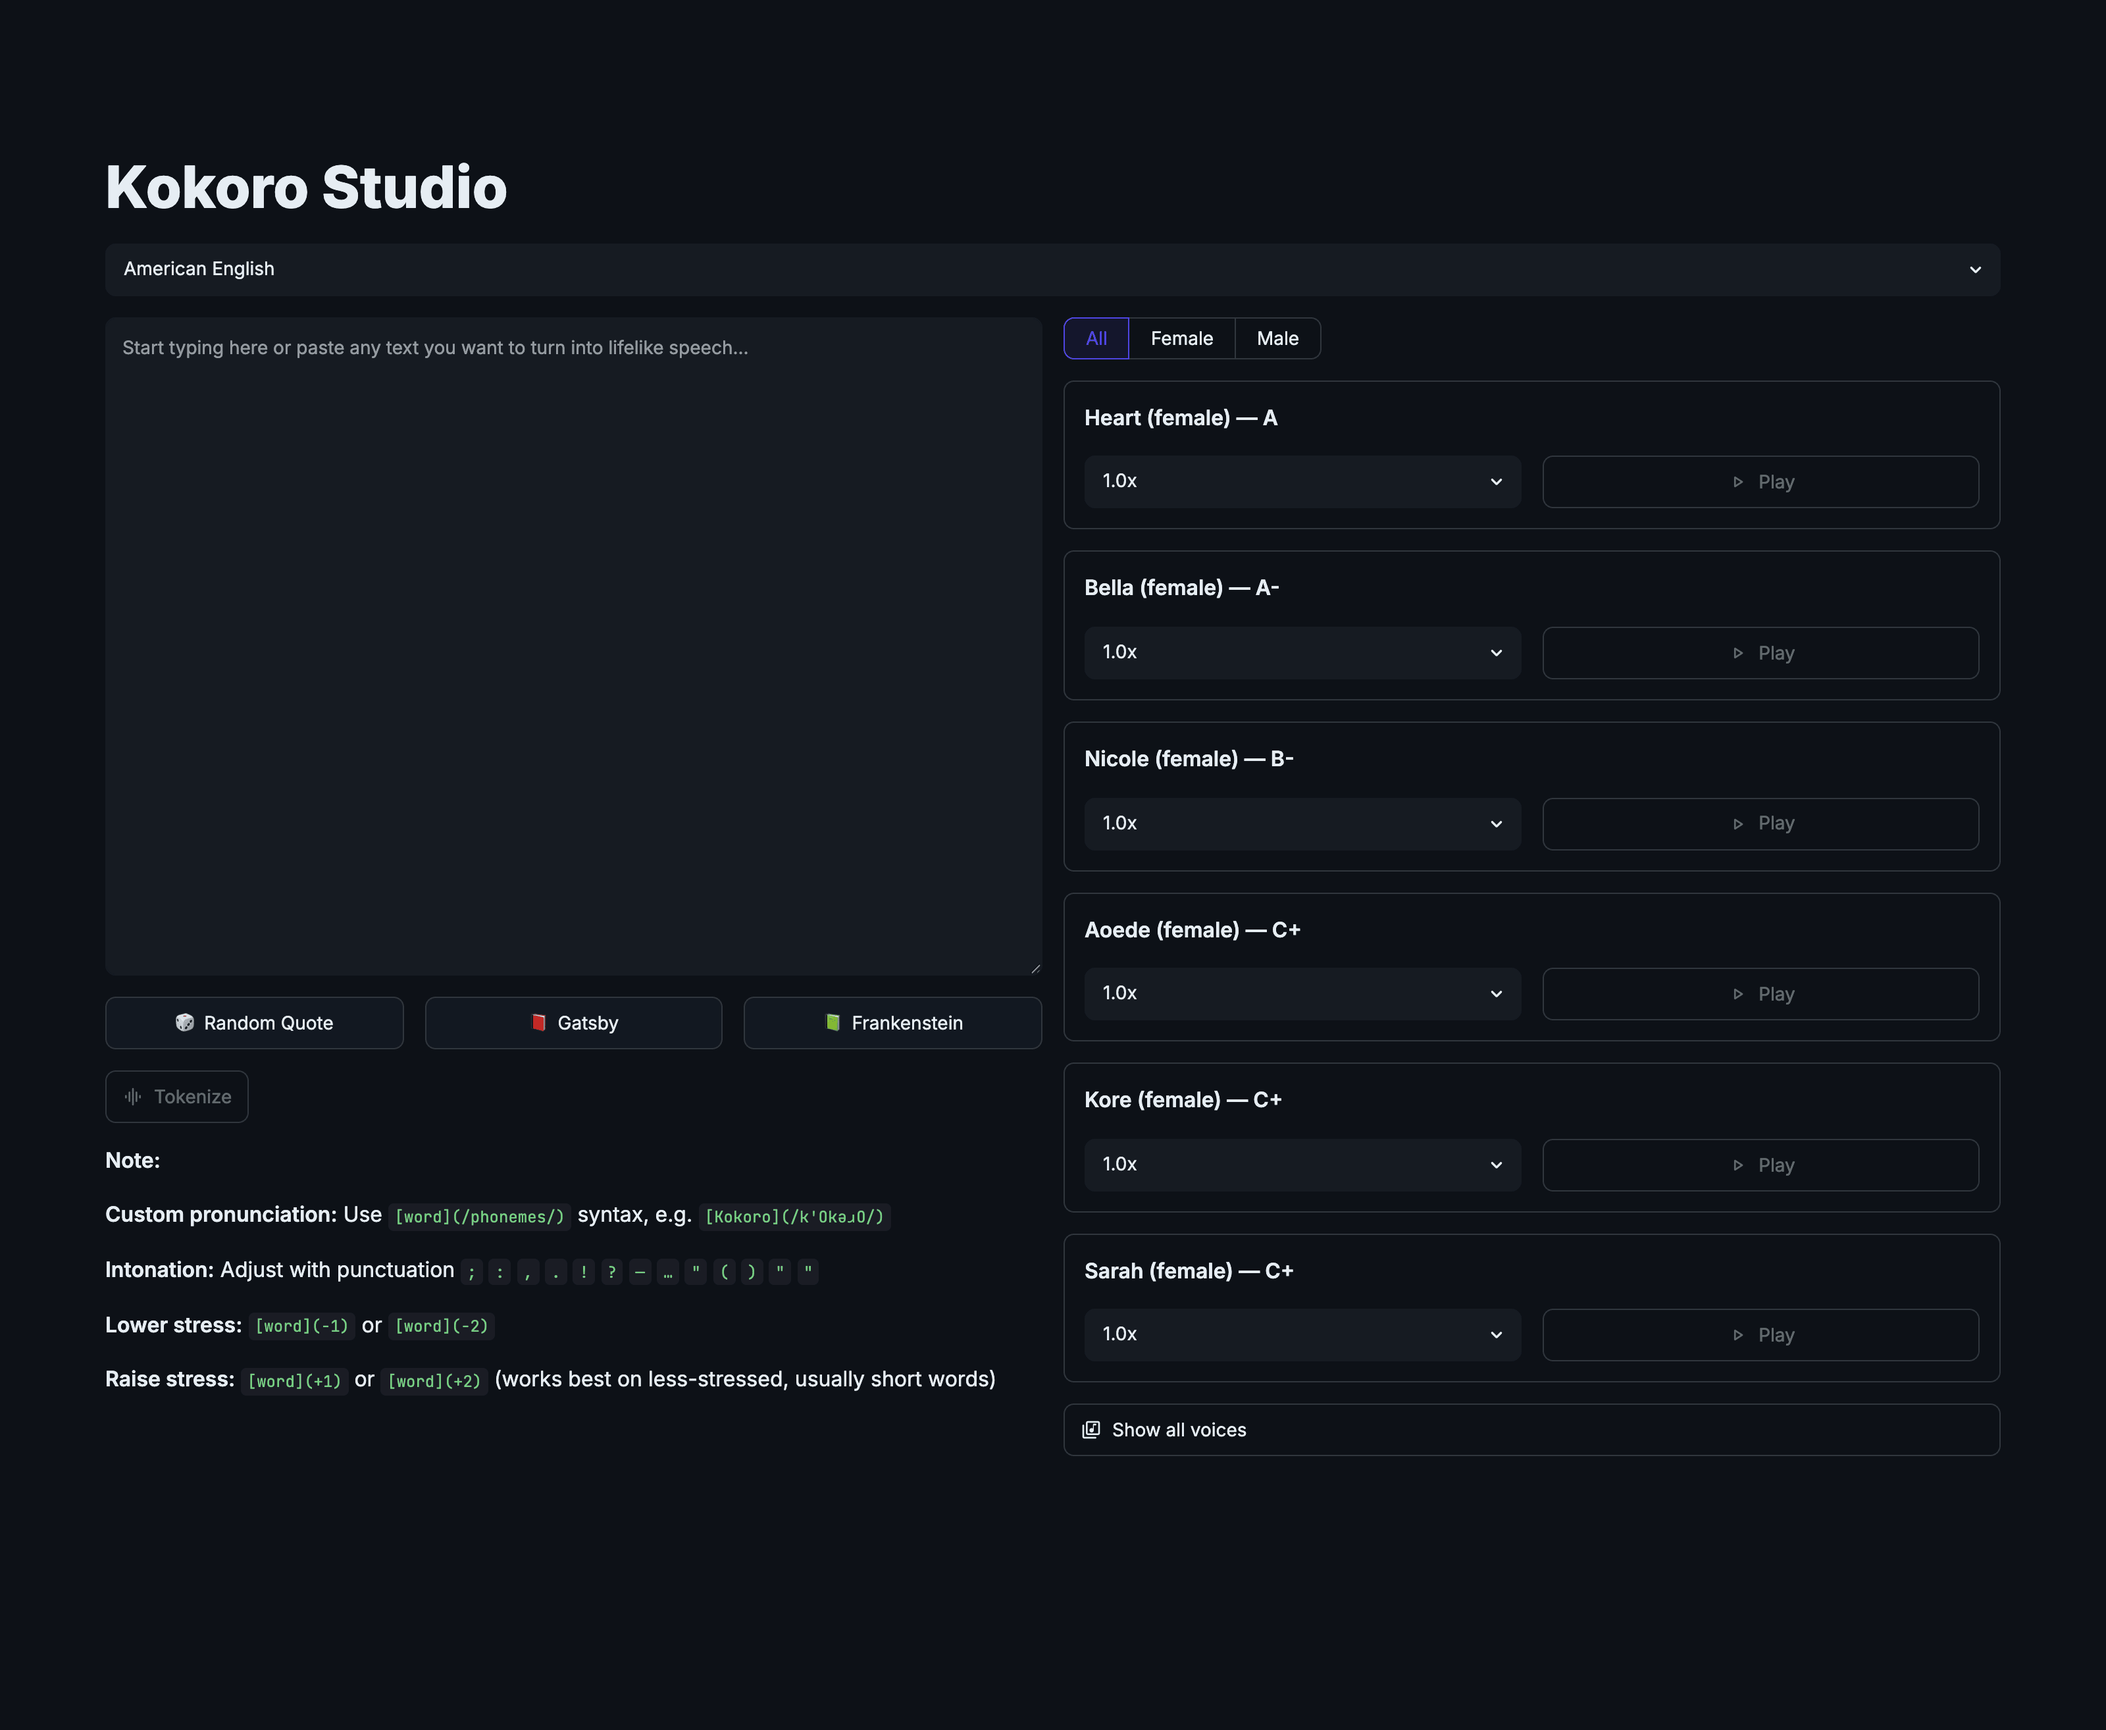
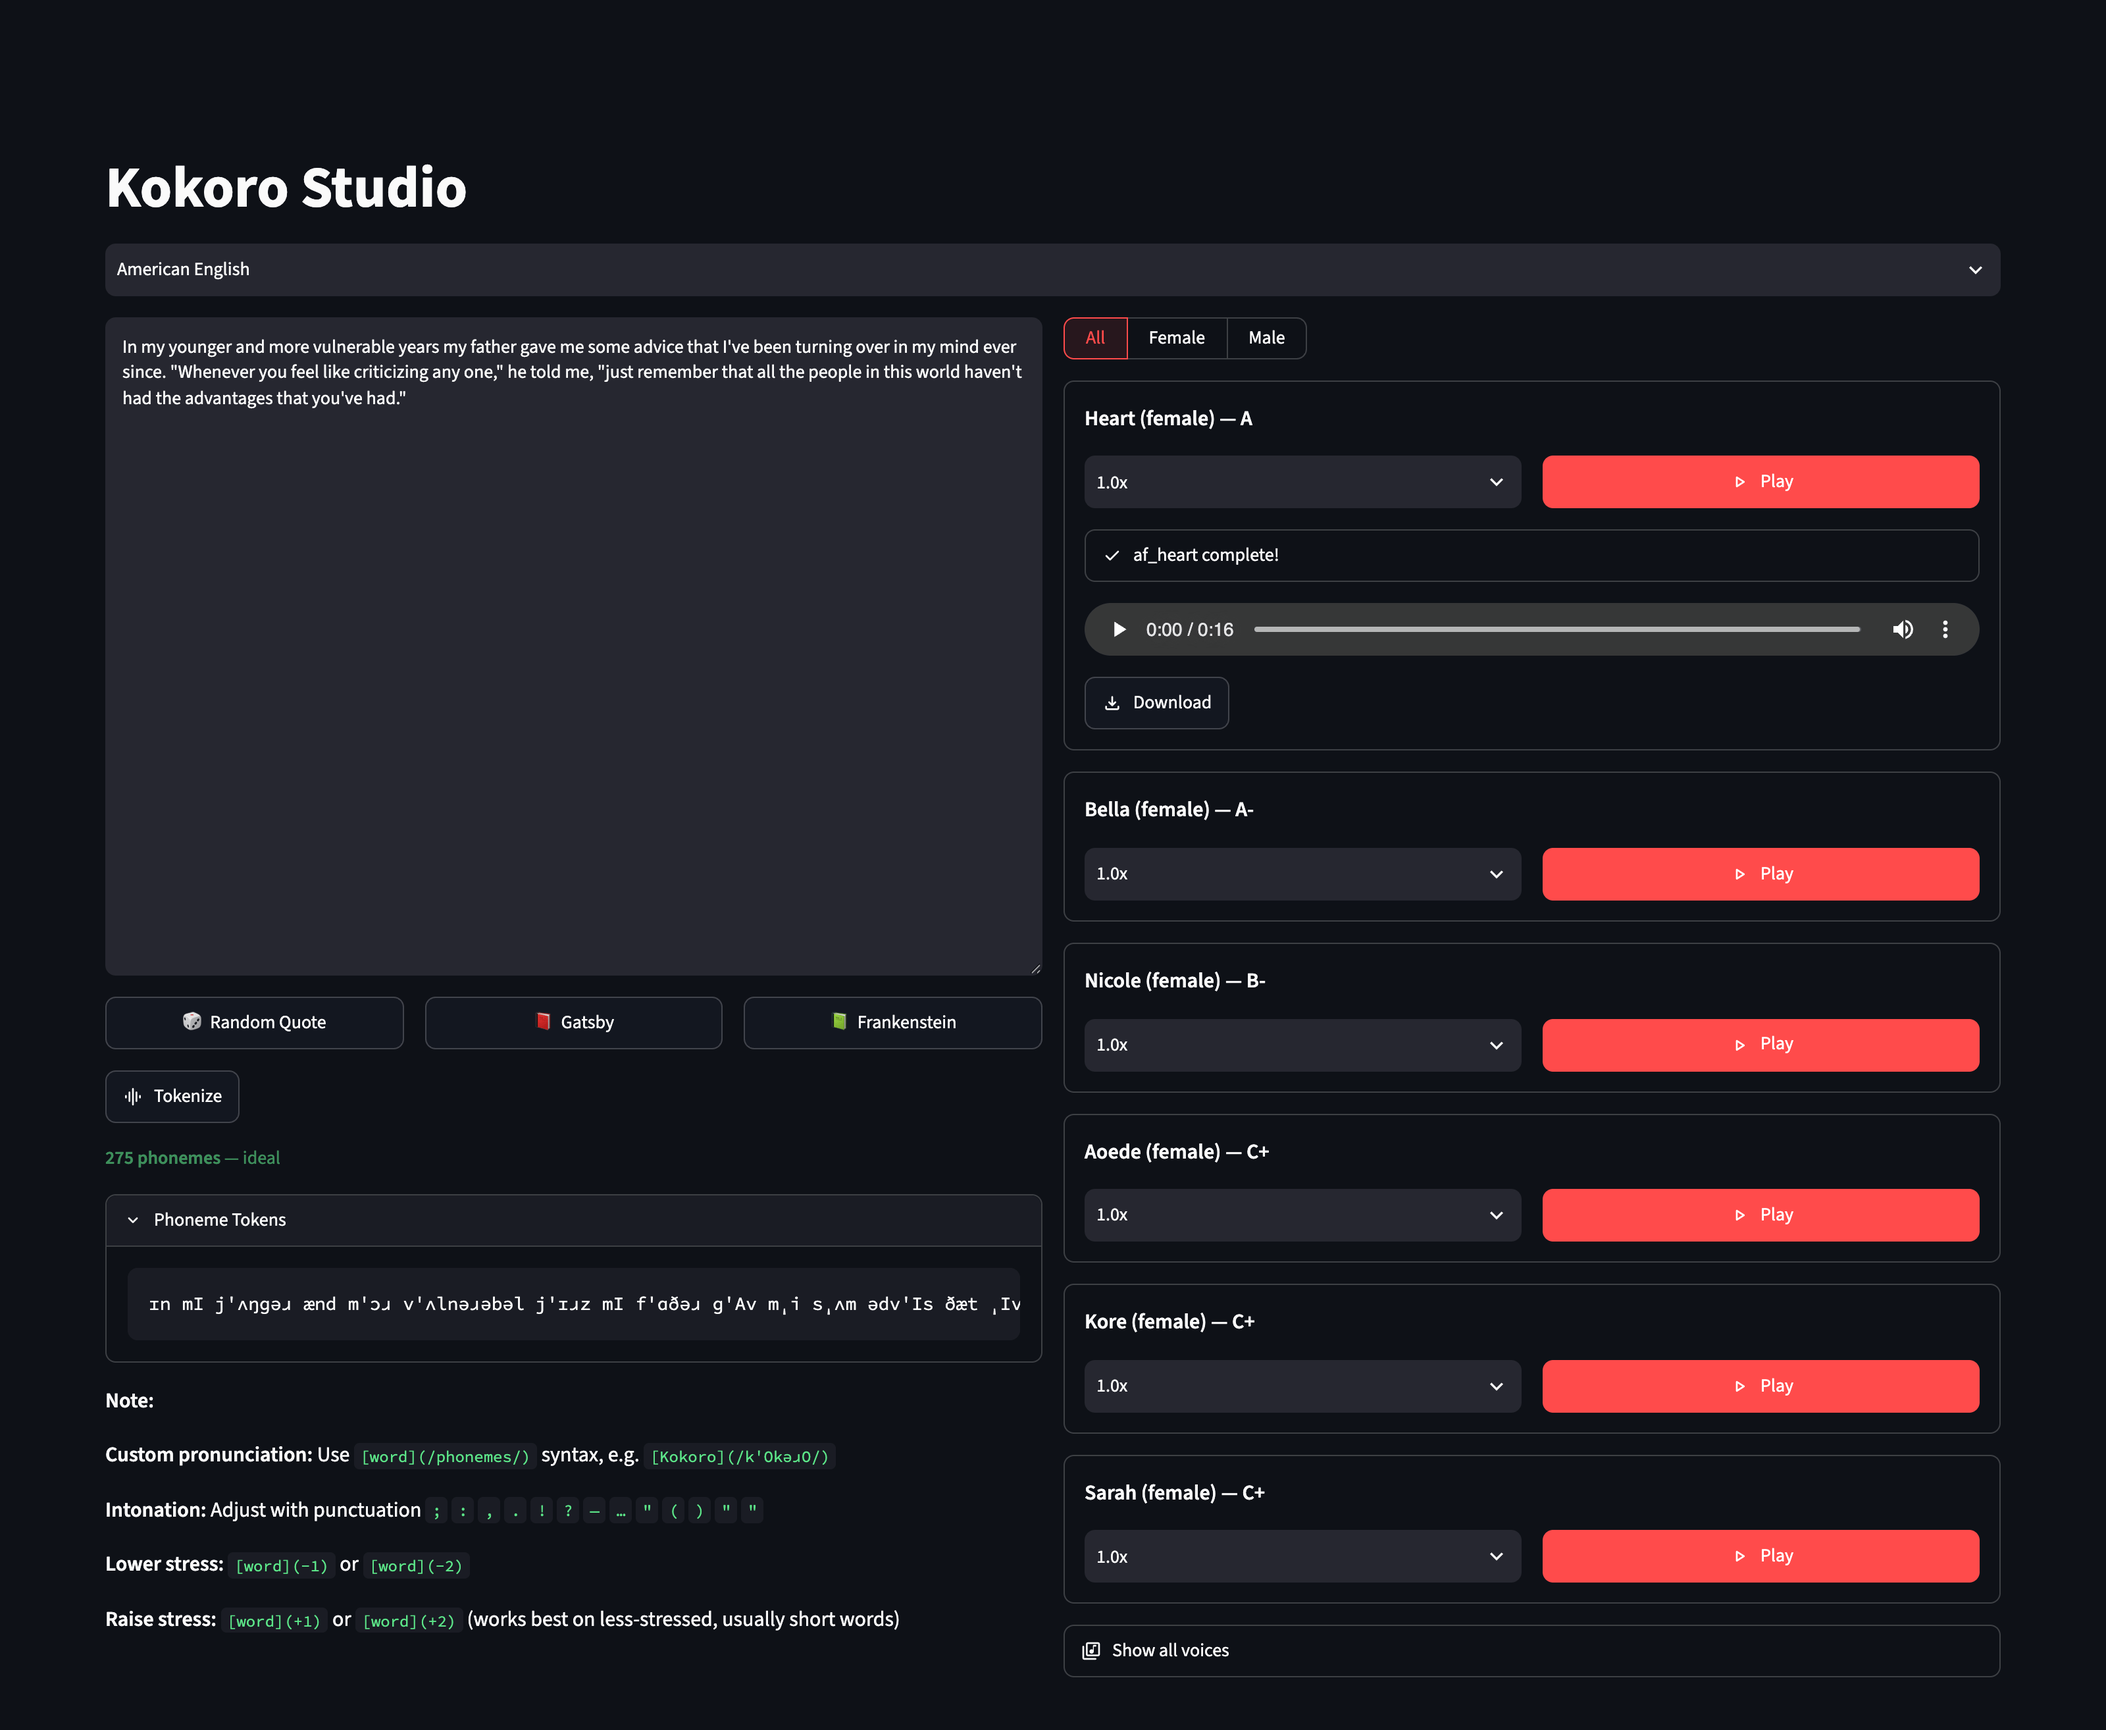
docs: replace the paired screenshots with one mid-session dark hero
Both old screenshots showed the removed indigo theme, so both were stale.
Recapture dark only, at 3200x2628, and show the app in use rather than at
initial render: Gatsby sample loaded, tokenized so the length caption and
phoneme expander are populated, and af_heart generated so the top voice card
carries its status, audio player and Download button. The idle framing hid a
detail — with the text area empty every Play button is disabled, so the app's
accent colour never appeared at all.

Add scripts/capture_screenshot.py rather than a runbook. All four ways the
capture goes wrong produce a plausible but wrong image instead of an error, so
prose would ship the bad one: the dark_theme embed option is a no-op, so the
browser's colour scheme is emulated instead; Chrome's --virtual-time-budget
screenshots the skeleton loader, because virtual time never advances
Streamlit's websocket handshake, so every wait is on a real selector; the
clicked Play button keeps a focus state its five siblings lack, so it is
blurred and the mouse parked before the shot; and stMainBlockContainer's
bounding box overshoots the visible content by its own bottom padding, so the
crop height is measured off the last real elements. The script also refuses to
write the file if the app raised an alert.

Playwright stays out of the project dependencies — it would pull a browser
download into every uv sync — so the script runs under uvx, which is why its
[…]

diff --git a/scripts/capture_screenshot.py b/scripts/capture_screenshot.py
@@ -1,0 +1,137 @@
+"""Recapture `assets/screenshot-dark.png`, the README hero.
+
+Playwright is deliberately *not* a project dependency — it would drag a browser
+download into every `uv sync` for something run a few times a year. Start the
+app, then run this through `uvx`:
+
+    uv run streamlit run streamlit_app.py --server.headless true &
+    uvx --with playwright python scripts/capture_screenshot.py
+
+This is a script rather than a paragraph of instructions because all four ways
+it goes wrong produce a *plausible but wrong image* instead of an error:
+
+* `embed_options=dark_theme` is a no-op, so dark mode is forced by emulating the
+  browser's colour scheme. That is also the honest path: the app ships no theme
+  and follows the system setting, so this is what a dark-mode user really sees.
+* Chrome's own `--headless --screenshot --virtual-time-budget` captures the
+  skeleton loader — virtual time advances timers but never Streamlit's websocket
+  handshake. Every wait below is therefore on a real selector.
+* The clicked Play button keeps a focus state its five siblings lack and renders
+  a brighter red, so it is blurred and the mouse parked before the shot.
+* `.stMainBlockContainer`'s own bounding box overshoots the visible content by
+  its bottom padding, so the crop height is measured off the last real elements.
+
+`embed=true` drops the Deploy/⋮ toolbar; `show_padding` restores the top margin
+that embed mode strips.
+"""
+
+from __future__ import annotations
+
+import shutil
+import subprocess
+import sys
+from pathlib import Path
+
+from playwright.sync_api import Page, sync_playwright  # ty: ignore[unresolved-import]
+
+REPO_ROOT = Path(__file__).resolve().parent.parent
+OUTPUT = REPO_ROOT / "assets" / "screenshot-dark.png"
+
+URL = "http://localhost:8501/?embed=true&embed_options=show_padding"
+WIDTH = 1600
+HEIGHT = 1400
+SCALE = 2
+
+# Cropping anchors: the bottom-most real element in each column.
+CROP_ANCHORS = ("Show all voices", "Raise stress:")
+CROP_MARGIN = 48
+
+GENERATION_TIMEOUT_MS = 240_000
+
+
+def drive(page: Page) -> None:
+    """Put the app into the mid-session state the hero is meant to show."""
+    page.goto(URL, wait_until="networkidle")
+    page.wait_for_selector("text=Show all voices", timeout=60_000)
+    page.wait_for_timeout(1_500)
+
+    page.get_by_role("button", name="Gatsby").click()
+    page.wait_for_function(
+        "document.querySelector('textarea').value.includes('younger')", timeout=30_000
+    )
+
+    page.get_by_role("button", name="Tokenize").click()
+    page.wait_for_selector("text=Phonemes", timeout=60_000)
+    page.wait_for_timeout(1_200)
+
+    page.get_by_role("button", name="Play").first.click()
+    page.wait_for_selector("audio", timeout=GENERATION_TIMEOUT_MS)
+    page.wait_for_timeout(3_000)
+
+    alerts = page.locator('[data-testid="stAlert"]').all_inner_texts()
+    if alerts:
+        raise RuntimeError(f"app raised an alert, refusing to ship the shot: {alerts}")
+
+    # Drop the focus ring the click left behind, and park the cursor off-canvas
+    # so nothing renders a hover state.
+    page.evaluate("document.activeElement && document.activeElement.blur()")
+    page.mouse.move(4, 4)
+    page.wait_for_timeout(1_200)
+
+
+def crop_height(page: Page) -> int:
+    """Height that ends just below the last real element, not the container."""
+    bottoms = []
+    for anchor in CROP_ANCHORS:
+        box = page.get_by_text(anchor).first.bounding_box()
+        if box is None:
+            raise RuntimeError(f"crop anchor not found, UI changed?: {anchor!r}")
+        bottoms.append(box["y"] + box["height"])
+    return round(max(bottoms) + CROP_MARGIN)
+
+
+def optimise(path: Path) -> None:
+    """Shrink in place with pngquant, which is lossless enough on flat UI colour."""
+    if shutil.which("pngquant") is None:
+        print("pngquant not found, leaving the PNG unoptimised", file=sys.stderr)
+        return
+    before = path.stat().st_size
+    subprocess.run(
+        [
+            "pngquant",
+            "--quality=88-100",
+            "--speed",
+            "1",
+            "--strip",
+            "--force",
+            "--output",
+            str(path),
+            str(path),
+        ],
+        check=True,
+    )
+    print(f"pngquant: {before // 1024} KB -> {path.stat().st_size // 1024} KB")
+
+
+def main() -> None:
+    with sync_playwright() as p:
+        browser = p.chromium.launch(channel="chrome")
+        page = browser.new_page(
+            viewport={"width": WIDTH, "height": HEIGHT},
+            device_scale_factor=SCALE,
+            color_scheme="dark",
+        )
+        drive(page)
+        height = crop_height(page)
+        page.screenshot(
+            path=str(OUTPUT),
+            clip={"x": 0, "y": 0, "width": WIDTH, "height": height},
+        )
+        browser.close()
+
+    optimise(OUTPUT)
+    print(f"wrote {OUTPUT.relative_to(REPO_ROOT)} at {WIDTH * SCALE}x{height * SCALE}")
+
+
+if __name__ == "__main__":
+    main()

diff --git a/CLAUDE.md b/CLAUDE.md
@@ -101,7 +101,8 @@ Three decisions that are easy to undo by accident:
 - `voice_grades.py` — `VOICE_GRADES`, `_GRADE_RANK`, and `_grade_rank`, extracted from the Kokoro model card; consumed by the voice picker for sorting and labeling.
 - `samples/` — public-domain sample text, 9 directories × 3 files: `random.txt` (one quote per line, a pool) plus two literary excerpts. Referenced by `SAMPLE_BUTTONS`, read by `_load_sample`.
 - `README.md` — user-facing docs (install, usage, troubleshooting), the screenshots, and the third-party GPLv3/LGPL acknowledgements. It duplicates several facts held here, so update both; its tagline, MIT badge and license link are asserted by `TestProjectMetadata`/`TestLicensing`.
-- `assets/` — `screenshot-light.png` / `screenshot-dark.png`, embedded side-by-side in README with layout-describing alt text. Changes to the UI section below make these stale; recapture in both themes.
+- `assets/` — `screenshot-dark.png` alone, the full-width README hero, with layout-describing alt text. It shows the app **mid-session**, not at initial render: sample text loaded, Tokenize run so the length caption and phoneme expander are populated, and the top voice card generated so it carries a player and Download. (Idle framing hides the accent colour entirely — with the text area empty, every Play button is disabled.) Changes to the UI section below make it stale; recapture with `scripts/capture_screenshot.py`.
+- `scripts/capture_screenshot.py` — regenerates that hero. It exists as a script rather than a runbook because all four ways the capture goes wrong yield a *plausible but wrong image* instead of an error, so a human following prose would ship the bad one; its module docstring names each. Not a project dependency — playwright would pull a browser download into every `uv sync`, so it runs under `uvx --with playwright`, which is also why its import carries `# ty: ignore[unresolved-import]` (CI's `ty check` fails on it otherwise — verified by deleting the comment).
 - `LICENSE` — MIT (declared via `license = "MIT"` + `license-files = ["LICENSE"]` in `pyproject.toml`); runtime deps add GPLv3/LGPL terms — see README acknowledgements.
 - `.python-version`, `.streamlit/config.toml`, `.github/workflows/ci.yml` — see Installation, Configuration, and CI & Releases.
 - `.github/dependabot.yml` — weekly `github-actions` update PRs (`commit-message.prefix: "ci"`). This is the refresh mechanism for the pins that cannot float. Python dependencies are deliberately **not** covered — those go through `uv add`/`uv lock`.

diff --git a/README.md b/README.md
@@ -12,8 +12,7 @@
 Streamlit application for generating multilingual speech using [Hexgrad Kokoro](https://huggingface.co/hexgrad/Kokoro-82M) on Apple Silicon with MLX.
 
 <p align="center">
-  <img src="assets/screenshot-light.png" width="49%" alt="Kokoro Studio in light theme — language selector and text input beside a grade-sorted column of voice cards">
-  <img src="assets/screenshot-dark.png" width="49%" alt="Kokoro Studio in dark theme — the same layout in dark mode">
+  <img src="assets/screenshot-dark.png" width="100%" alt="Kokoro Studio in dark theme — a Gatsby excerpt in the text area with its phoneme tokens expanded below, beside a grade-sorted column of voice cards whose top card has finished generating and shows an audio player and a download button">
 </p>
 
 ## Why Kokoro Studio
